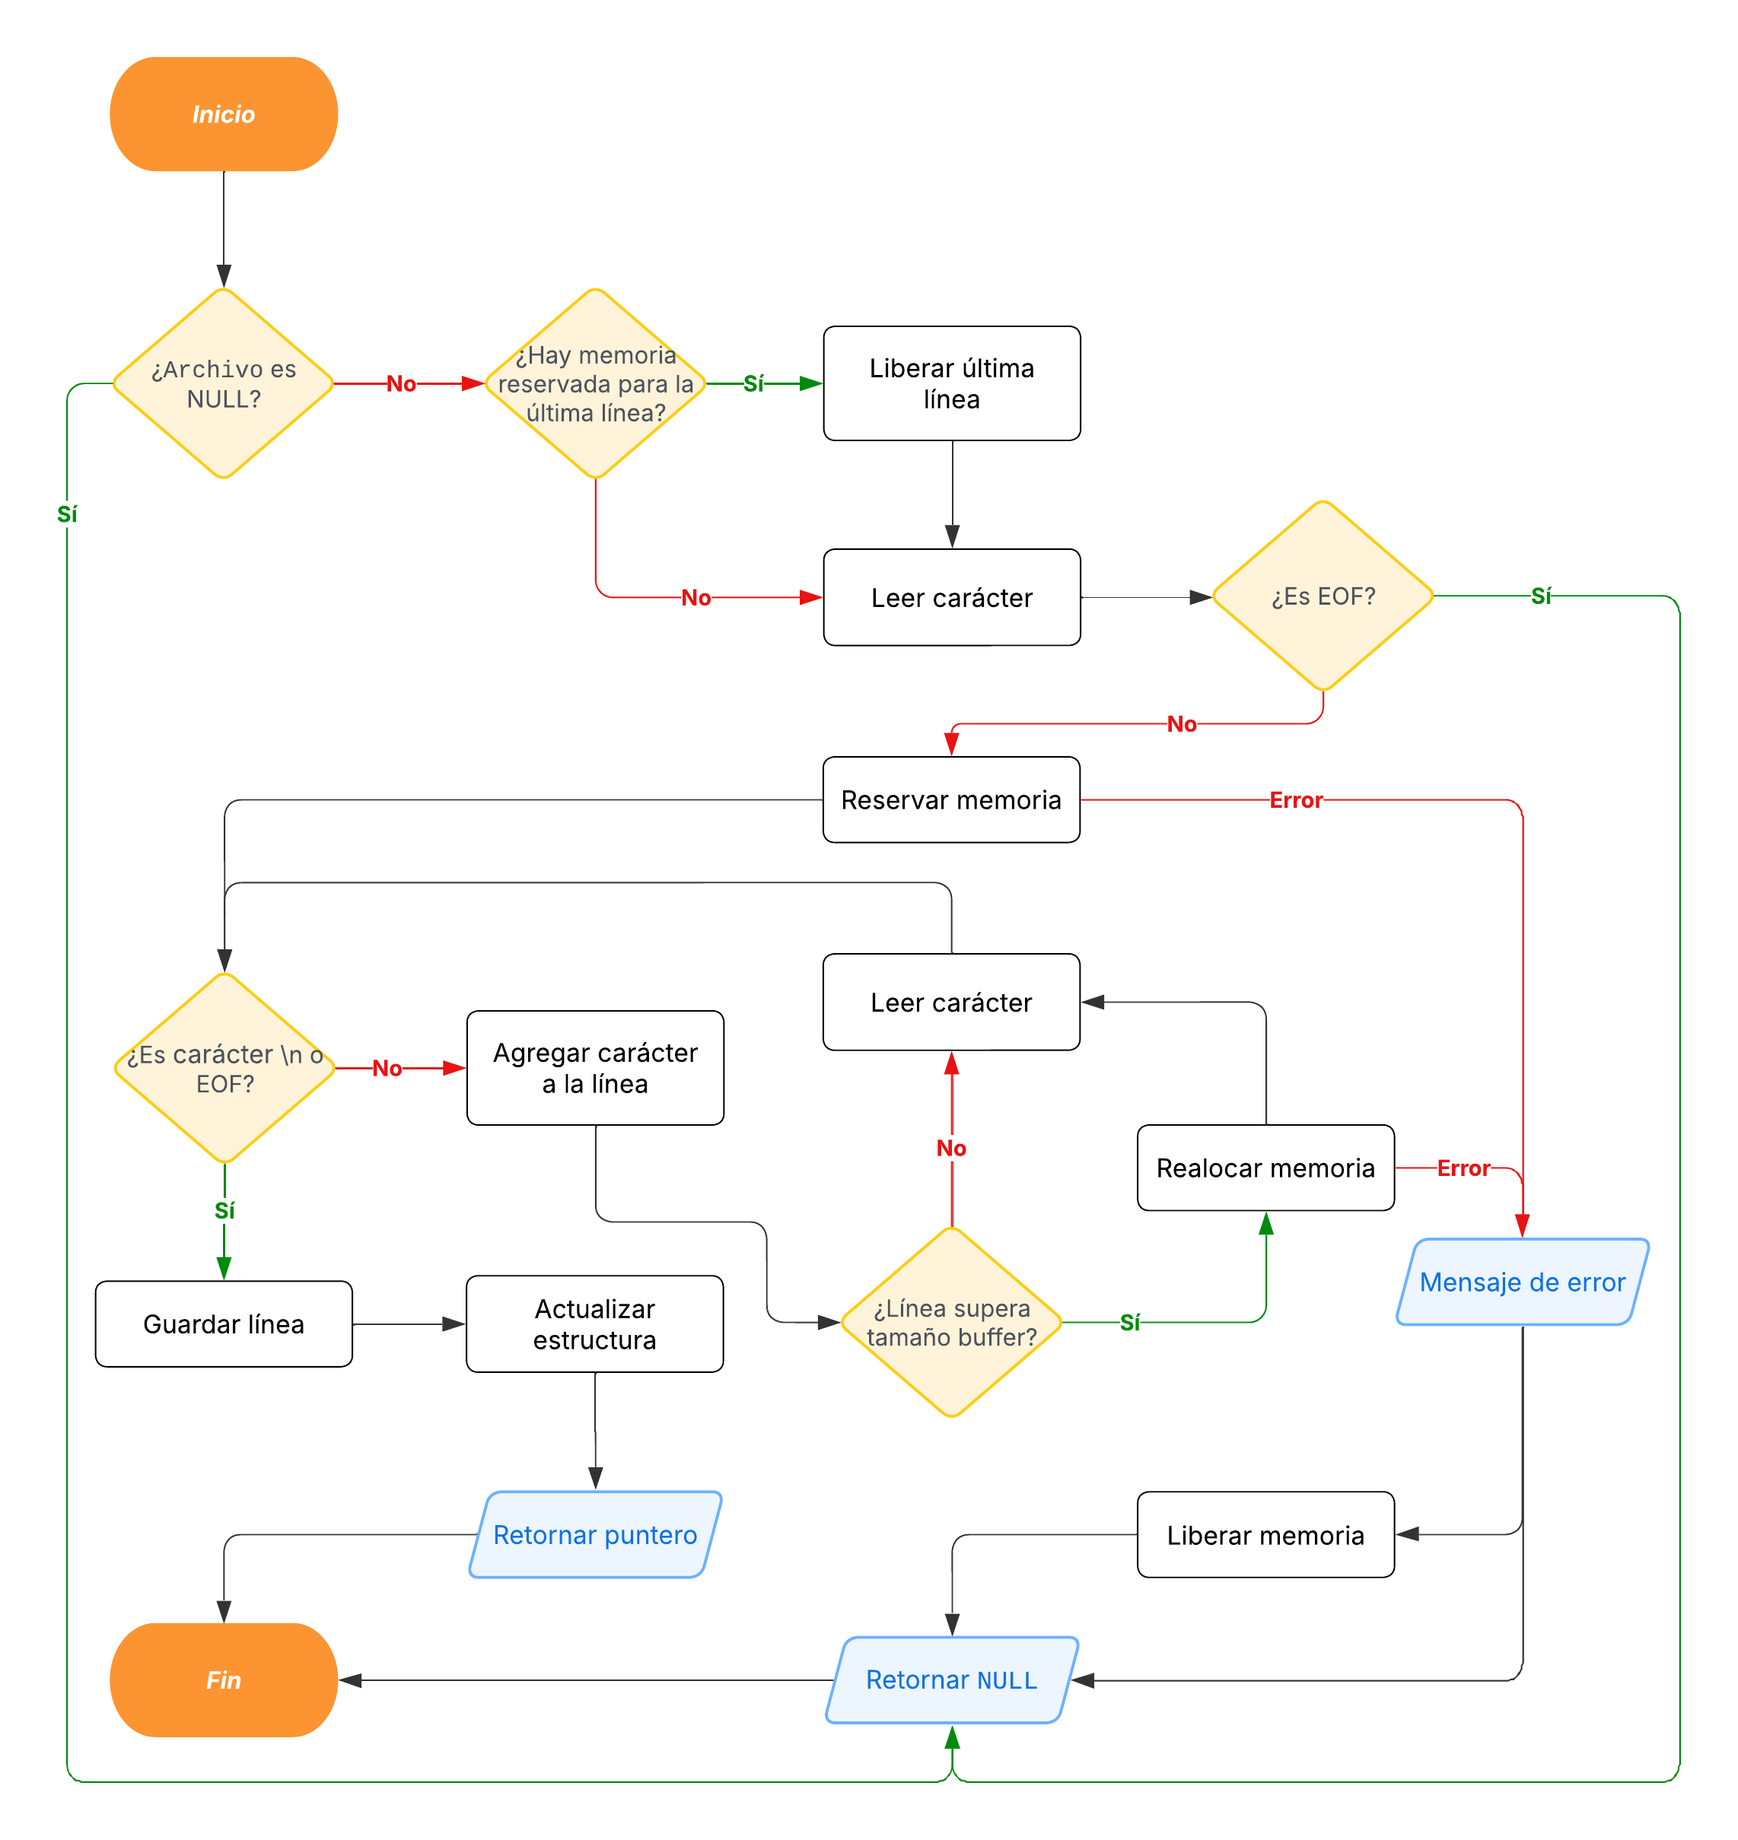
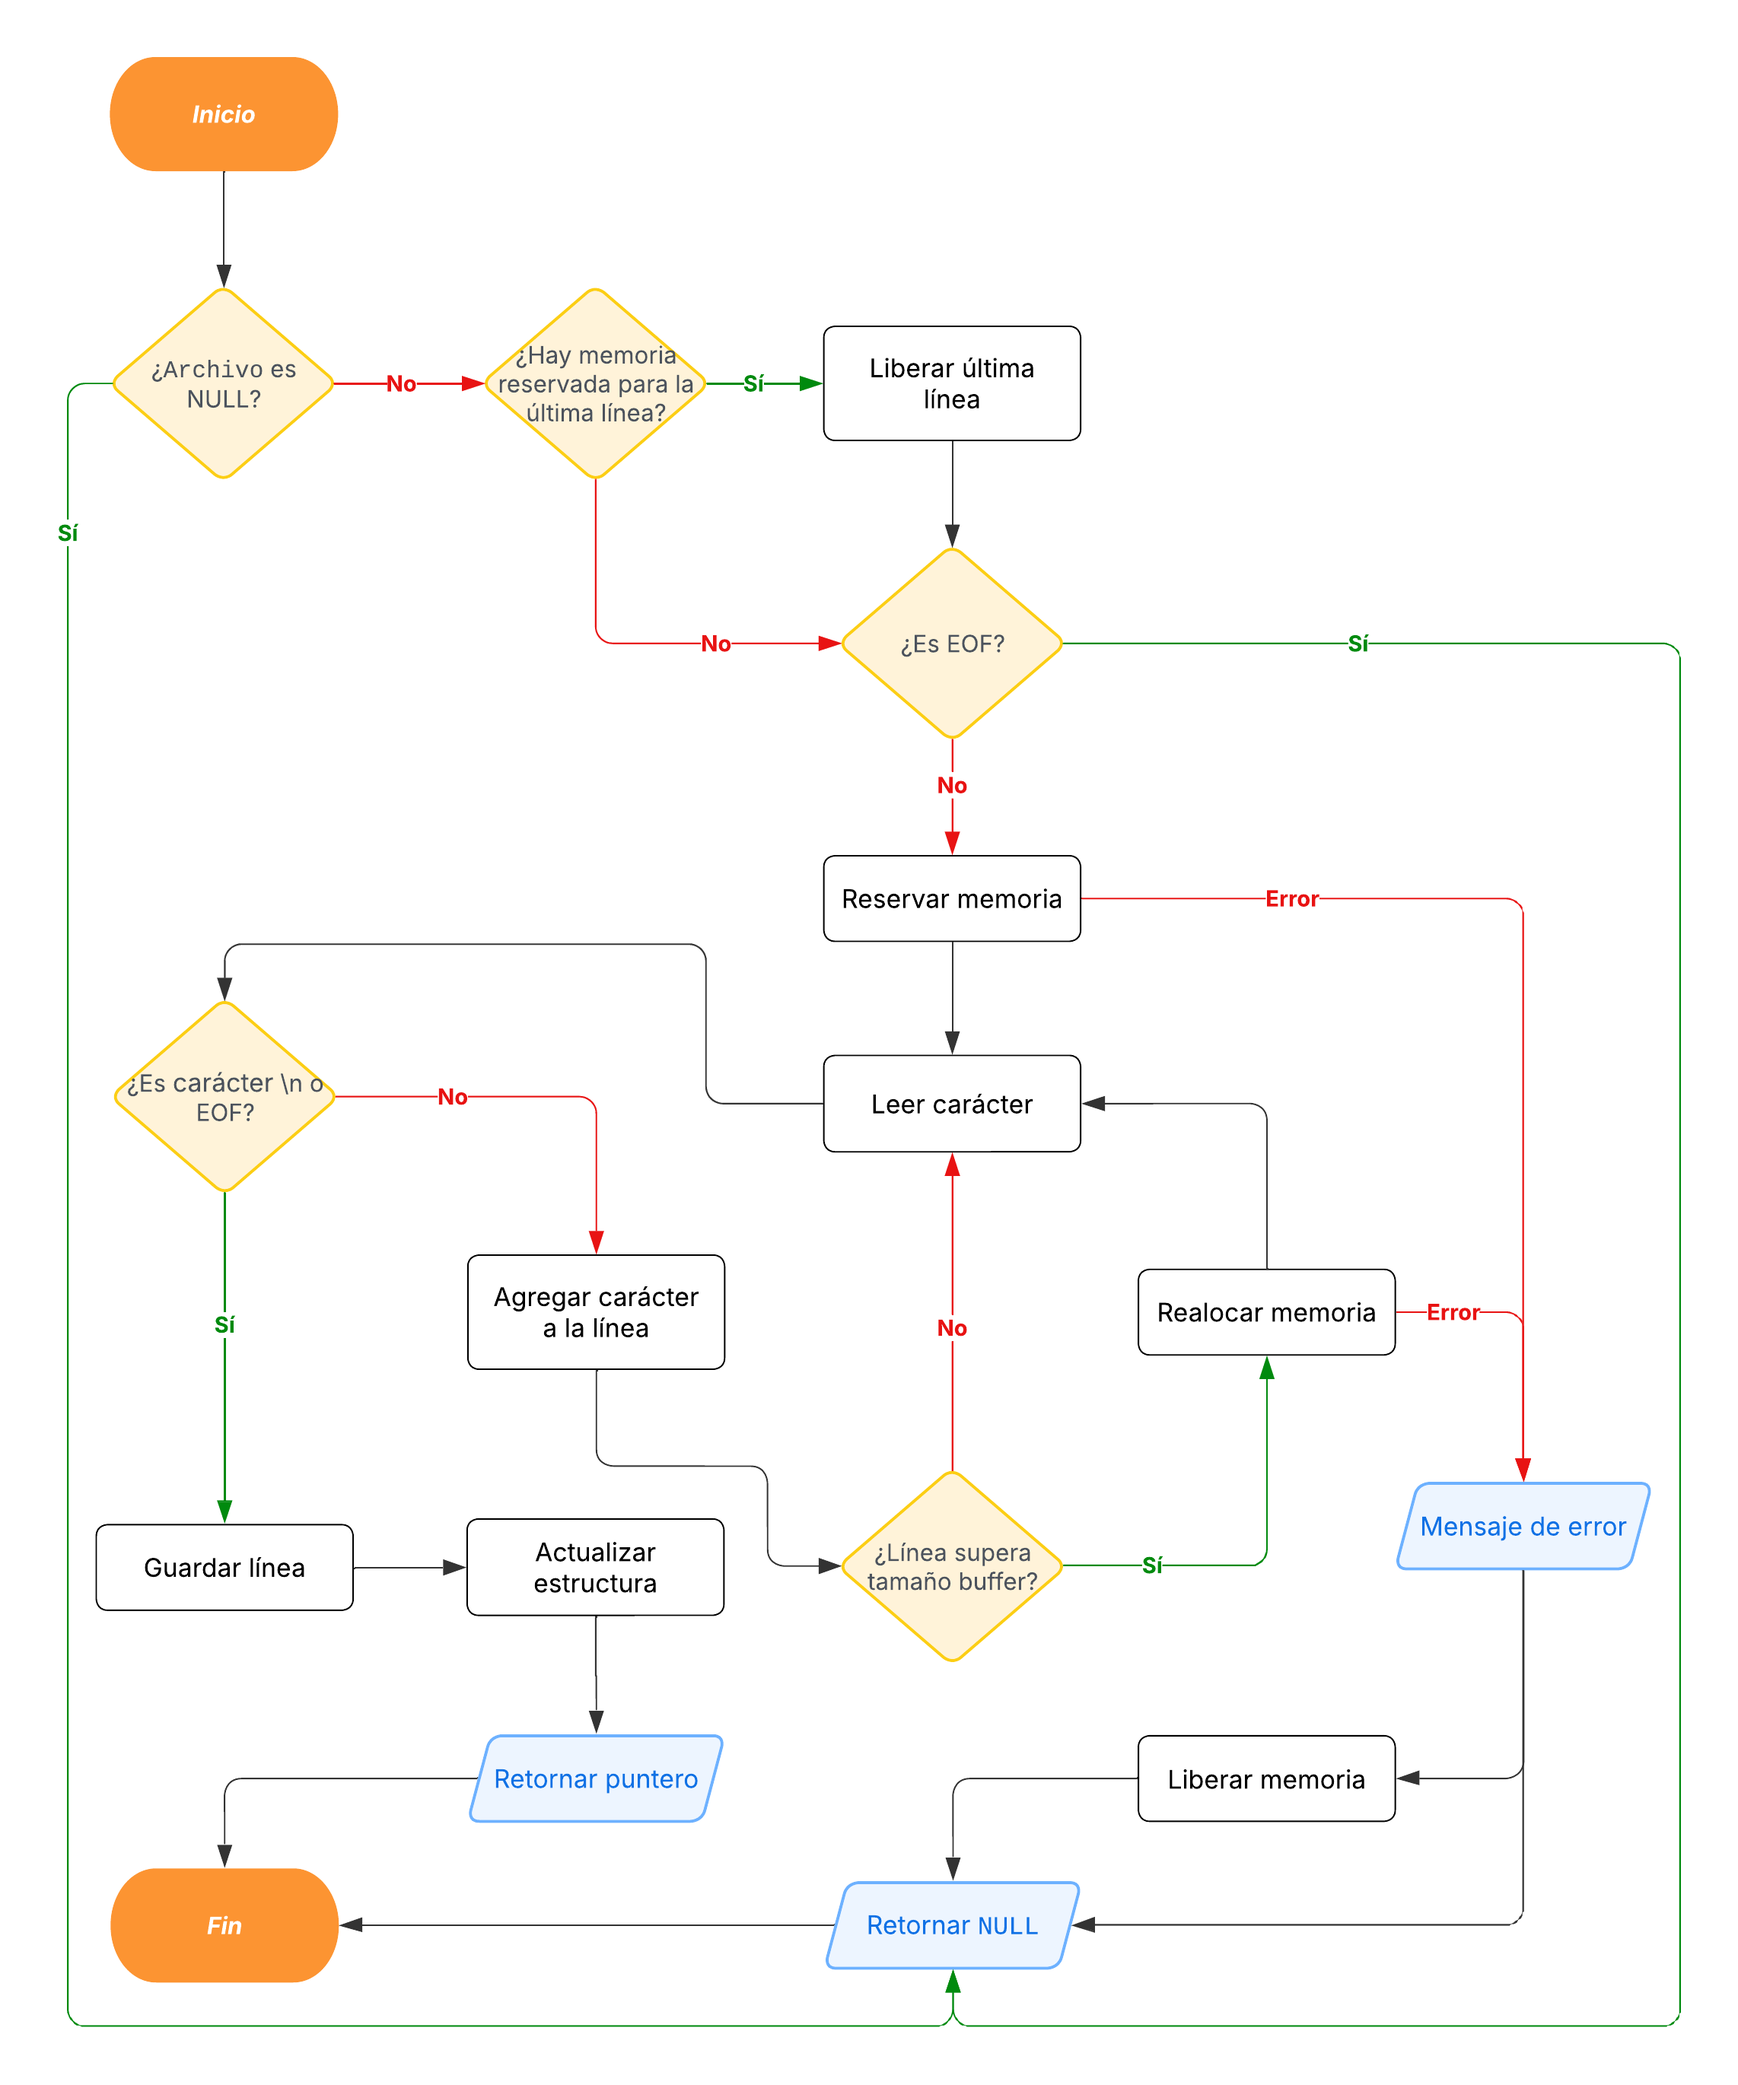
Actualizo diagramas según las funciones actualizadas de las pruebas

diff --git a/TP0/README.md b/TP0/README.md
@@ -64,7 +64,7 @@ Es responsable de abrir un archivo de texto en modo lectura y devolver un punter
 #### `archivo_leer_linea()`
 <div style="text-align: justify">
 
-Permite leer una línea del archivo y devolverla en forma de cadena de caracteres. Antes de leer una nueva línea, se libera la memoria de la última línea almacenada, en caso de existir. Se reserva una cantidad inicial de memoria para la línea a leer y, mediante un bucle que emplea `fgetc()`, se van obteniendo caracteres del archivo hasta encontrar un salto de línea (`\n`) o el final del archivo (`EOF`). En caso de que la línea supere la memoria asignada, se realoca más espacio dinámicamente en una cantidad constante de 10 bytes. Una vez completada la lectura, la línea obtenida se almacena en `ultima_linea` y se incrementa el contador de líneas leídas. Finalmente, la función retorna la línea leída o `NULL` si no hay más contenido en el archivo.
+Lee una línea del archivo y la devuelve como una cadena de caracteres. Antes de iniciar la lectura, libera la memoria de la última línea almacenada, si existe. Luego, reserva una cantidad inicial de memoria para la nueva línea. Utiliza `fgetc()` para leer caracteres del archivo hasta encontrar un salto de línea (`\n`) o el final del archivo (`EOF`). Si la cantidad de caracteres leídos supera la capacidad reservada, la memoria se expande dinámicamente duplicando su tamaño. Al finalizar la lectura, la línea obtenida se almacena en ultima_linea, se incrementa el contador de líneas leídas y se retorna un puntero a la línea. Si el archivo ya no tiene más contenido, la función devuelve `NULL`.
 
 </div>
 
@@ -76,7 +76,7 @@ Permite leer una línea del archivo y devolverla en forma de cadena de caractere
 #### `archivo_hay_mas_lineas()`
 <div style="text-align: justify">
 
-Permite determinar si quedan más líneas por leer en el archivo. Para ello, se obtiene la posición actual del archivo utilizando `ftell()`. A continuación, se lee un carácter con `fgetc()` para verificar si hay más contenido disponible. Si el carácter obtenido es `EOF`, se concluye que no quedan más líneas y se devuelve `0`. En caso contrario, se retorna `1` y se restablece la posición original del archivo con `fseek()` para no alterar el flujo de lectura.
+Determina si quedan líneas por leer en el archivo. Verifica la validez del puntero y usa `feof()` para comprobar si se alcanzó el final, retornando `1` si hay más líneas y `0` en caso contrario.
 
 </div>
 
